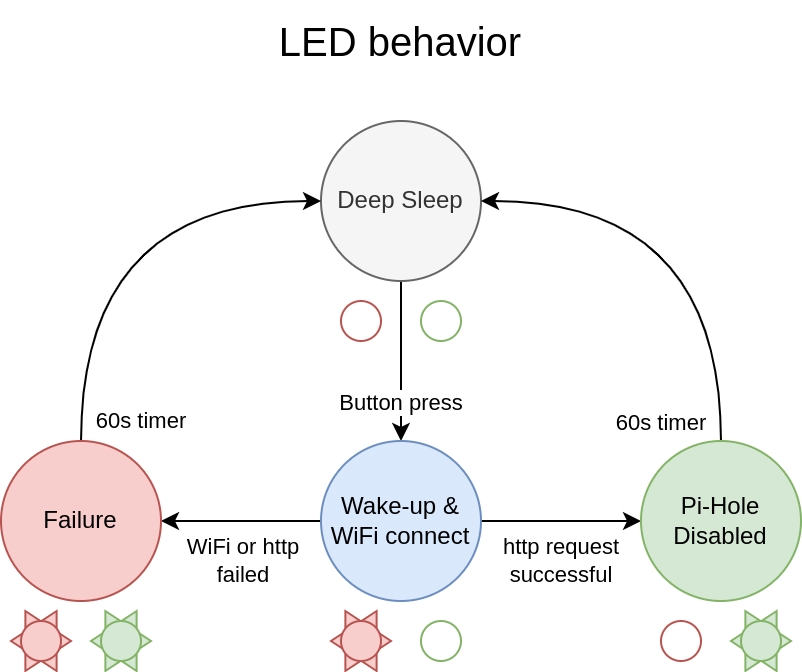
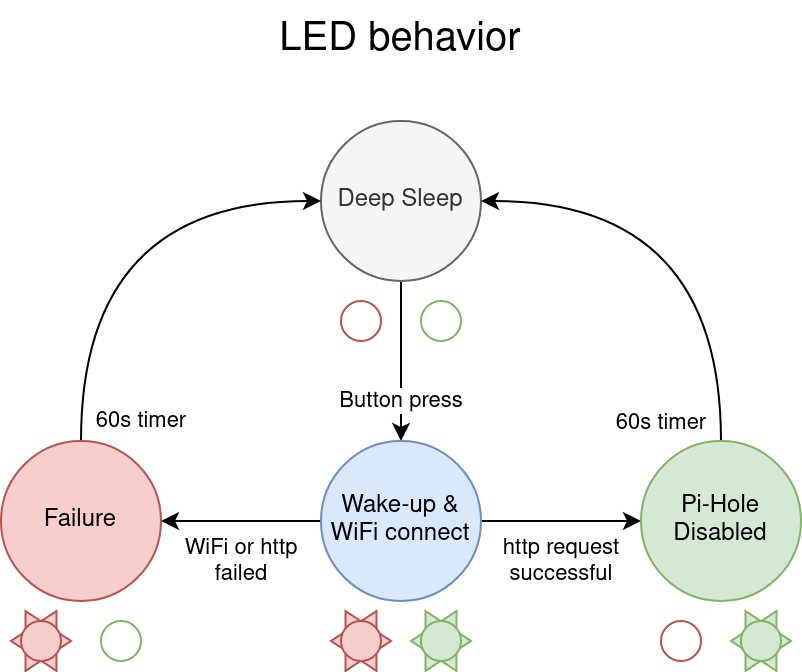
Modified LED behavior based on feedback from users.

diff --git a/main/main.c b/main/main.c
@@ -11,20 +11,37 @@ static const char* TAG_NET  = "network";
 static const char* TAG_SLP  = "sleep";
 
 // LED functions
+static const gpio_num_t led_green = GPIO_NUM_22;
+static const gpio_num_t led_red   = GPIO_NUM_23;
+
+void led_setup() {
+    ESP_LOGI(TAG_LED, "Configuring LED pins.");
+
+    gpio_reset_pin(led_green);
+    gpio_reset_pin(led_red);
+
+    gpio_set_direction(led_green, GPIO_MODE_OUTPUT);
+    gpio_set_direction(led_red, GPIO_MODE_OUTPUT);
+}
+
 void led_green_on() {
-    ESP_LOGI(TAG_LED, "Turning green LED on.");
+    ESP_LOGI(TAG_LED, "Turning on green LED.");
+    ESP_ERROR_CHECK(gpio_set_level(led_green, 1));
 }
 
 void led_green_off() {
-    ESP_LOGI(TAG_LED, "Turning green LED off.");
+    ESP_LOGI(TAG_LED, "Turning off green LED.");
+    ESP_ERROR_CHECK(gpio_set_level(led_green, 0));
 }
 
 void led_red_on() {
-    ESP_LOGI(TAG_LED, "Turning red LED on.");
+    ESP_LOGI(TAG_LED, "Turning on red LED.");
+    ESP_ERROR_CHECK(gpio_set_level(led_red, 1));
 }
 
 void led_red_off() {
-    ESP_LOGI(TAG_LED, "Turning red LED off.");
+    ESP_LOGI(TAG_LED, "Turning off red LED.");
+    ESP_ERROR_CHECK(gpio_set_level(led_red, 0));
 }
 
 // Sleep functions
@@ -50,7 +67,9 @@ int disable_blocking() {
 void app_main(void) {
     ESP_LOGI(TAG_MAIN, "Wakeup!");
 
+    led_setup();
     led_red_on();
+    led_green_on();
 
     esp_sleep_wakeup_cause_t wakeup_cause = esp_sleep_get_wakeup_cause();
 
@@ -59,11 +78,10 @@ void app_main(void) {
 
         if (disable_blocking() == ESP_OK) {
             ESP_LOGI(TAG_MAIN, "Disabled add blocking.");
-            led_green_on();
             led_red_off();
         } else {
             ESP_LOGI(TAG_MAIN, "Failed to disable add blocking.");
-            led_green_on();
+            led_green_off();
         }
 
         ESP_LOGI(TAG_MAIN, "Waiting for one minute.");
